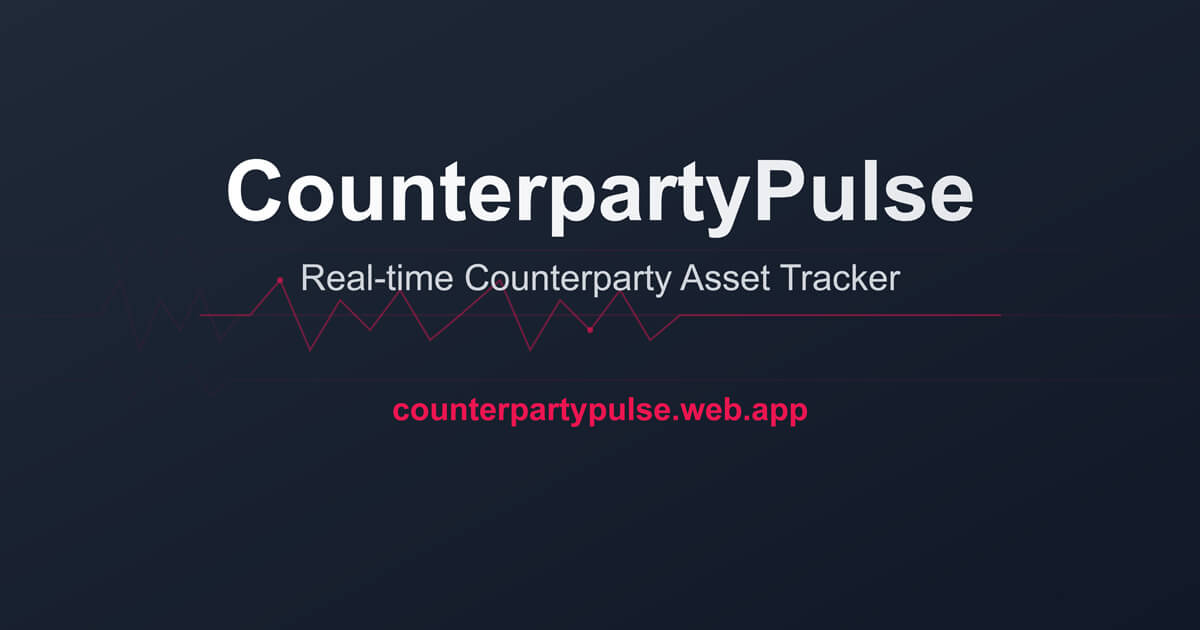
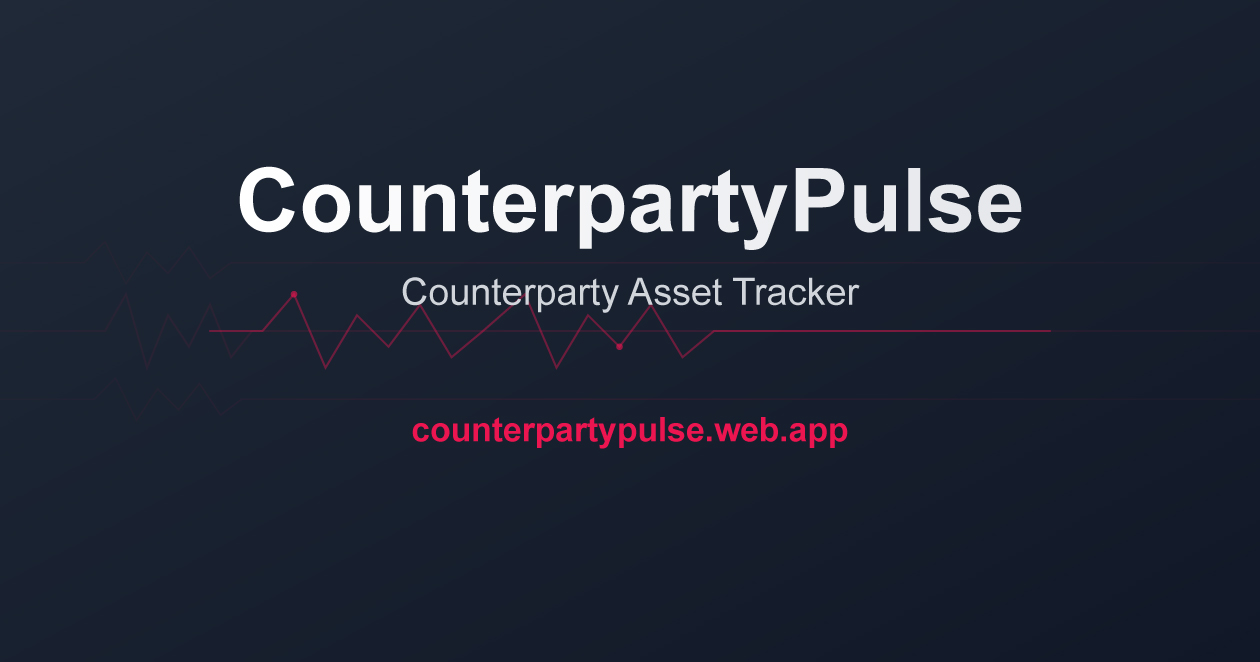
Add FAQ modal with comprehensive asset card explanations
- Created FaqModal component with dark theme styling
- Added explanations for all asset card values: Supply, Issuances, Burns, Address Burns, Available Supply, Holders, Marketplace Offers
- Integrated FAQ button in FiltersSidebar with FAQ icon (FontAwesome)
- Modal can be closed by clicking backdrop (consistent with AssetImageModal)
- Updated sidebar description to mention CP20 and marketplace offers
- All text in English for better accessibility

diff --git a/frontend/src/components/FaqModal.vue b/frontend/src/components/FaqModal.vue
@@ -1,0 +1,114 @@
+<template>
+  <div v-if="show" class="modal modal-open">
+    <div class="modal-box bg-base-100 max-w-4xl">
+      <h3 class="font-bold text-lg mb-4">Understanding Asset Cards</h3>
+      
+      <div class="space-y-6 max-h-96 overflow-y-auto">
+        <!-- Asset Name & Symbol -->
+        <div class="border-l-4 border-blue-500 pl-4">
+          <h4 class="font-semibold text-blue-600 mb-2">Asset Name & Symbol</h4>
+          <p class="text-sm opacity-70">
+            The <strong>Asset Name</strong> is the unique identifier for the digital asset on the Counterparty platform. 
+            The <strong>Symbol</strong> is a short abbreviation that represents the asset.
+          </p>
+        </div>
+        
+        <!-- Supply -->
+        <div class="border-l-4 border-green-500 pl-4">
+          <h4 class="font-semibold text-green-600 mb-2">Supply (Total Amount)</h4>
+          <p class="text-sm opacity-70">
+            The <strong>Supply</strong> shows the total number of available tokens for this asset. 
+            This can be a fixed amount or may change through additional issuances.
+          </p>
+        </div>
+        
+        <!-- Issuances (Total Created) -->
+        <div class="border-l-4 border-cyan-500 pl-4">
+          <h4 class="font-semibold text-cyan-600 mb-2">Issuances (Total Created)</h4>
+          <p class="text-sm opacity-70">
+            The total amount of tokens that have been <strong>created/issued</strong> for this asset.
+            This is the original amount before any burns or destructions.
+          </p>
+        </div>
+        
+        <!-- Burns -->
+        <div class="border-l-4 border-red-500 pl-4">
+          <h4 class="font-semibold text-red-600 mb-2">Burns</h4>
+          <p class="text-sm opacity-70">
+            The total amount of tokens that have been <strong>permanently destroyed</strong> (burned).
+            Burned tokens are removed from circulation forever.
+          </p>
+        </div>
+        
+        <!-- Address Burns -->
+        <div class="border-l-4 border-pink-500 pl-4">
+          <h4 class="font-semibold text-pink-600 mb-2">Address Burns</h4>
+          <p class="text-sm opacity-70">
+            Tokens sent to <strong>burn addresses</strong> (unspendable addresses) that effectively 
+            remove them from circulation without formal burn transactions.
+          </p>
+        </div>
+        
+        <!-- Available Supply -->
+        <div class="border-l-4 border-emerald-500 pl-4">
+          <h4 class="font-semibold text-emerald-600 mb-2">Available Supply</h4>
+          <p class="text-sm opacity-70">
+            The actual <strong>circulating supply</strong> available for trading.
+            Calculated as: Issuances - Burns - Address Burns.
+          </p>
+        </div>
+        
+        <!-- Holders -->
+        <div class="border-l-4 border-purple-500 pl-4">
+          <h4 class="font-semibold text-purple-600 mb-2">Holders (Owners)</h4>
+          <p class="text-sm opacity-70">
+            The number of <strong>Holders</strong> indicates how many different addresses/wallets 
+            currently own this asset. A higher number suggests broader distribution.
+          </p>
+        </div>
+        
+        <!-- Marketplace Offers -->
+        <div class="border-l-4 border-red-500 pl-4">
+          <h4 class="font-semibold text-red-600 mb-2">Marketplace Offers</h4>
+          <p class="text-sm opacity-70">
+            The number of active <strong>trading offers</strong> for this asset on 
+            decentralized exchanges and marketplaces.
+          </p>
+        </div>
+        
+        <!-- Description -->
+        <div class="border-l-4 border-indigo-500 pl-4">
+          <h4 class="font-semibold text-indigo-600 mb-2">Description</h4>
+          <p class="text-sm opacity-70">
+            The <strong>Description</strong> contains additional information about the asset 
+            provided by the creator. This may include links to websites, 
+            project descriptions, or other relevant details.
+          </p>
+        </div>
+        
+        <!-- Additional Info -->
+        <div class="bg-base-200 p-4 rounded-lg">
+          <h4 class="font-semibold mb-2">💡 Additional Information</h4>
+          <ul class="text-sm opacity-70 space-y-1">
+            <li>• <strong>Locked:</strong> Indicates if the asset is locked against further issuances</li>
+            <li>• <strong>Divisible:</strong> Shows if the asset can be divided into fractions</li>
+            <li>• <strong>Creation Date:</strong> The date when the asset was created</li>
+            <li>• <strong>Chain:</strong> Shows which blockchain variant the asset exists on (Classic or Counterparty)</li>
+          </ul>
+        </div>
+      </div>
+    </div>
+    <div class="modal-backdrop" @click="$emit('close')"></div>
+  </div>
+</template>
+
+<script setup>
+defineProps({
+  show: {
+    type: Boolean,
+    required: true
+  }
+});
+
+defineEmits(['close']);
+</script>

diff --git a/frontend/src/components/FiltersSidebar.vue b/frontend/src/components/FiltersSidebar.vue
@@ -1,6 +1,10 @@
 <template>
-  <aside class="w-80 max-w-full bg-base-300 p-4 text-base-content flex-shrink-0 h-full flex flex-col" style="width: 100%;">
-    <!-- Main content area -->
+  <div>
+    <!-- FAQ Modal direkt hier -->
+    <FaqModal :show="showFaqModal" @close="showFaqModal = false" />
+    
+    <aside class="w-80 max-w-full bg-base-300 p-4 text-base-content flex-shrink-0 h-full flex flex-col" style="width: 100%;">
+      <!-- Main content area -->
     <div class="space-y-4 flex-1">
       <!-- Search by asset name -->
       <div class="form-control w-full">
@@ -60,8 +64,30 @@
       </div>
     </div>
     
+    <!-- Description -->
+    <div class="mt-auto pt-2">
+      <p class="text-xs text-base-content/60 text-center leading-relaxed mb-2 max-w-xs mx-auto">
+        Track Counterparty assets on Classic and CP20. Monitor supply, holders, and marketplace offers.
+      </p>
+      
+      <!-- FAQ Icon -->
+      <div class="text-center mb-2">
+        <button 
+          @click="showFaqModal = true"
+          class="btn btn-ghost btn-xs text-base-content/50 hover:text-base-content/80"
+          style="border: none !important; outline: none !important; box-shadow: none !important; background: transparent !important;"
+          title="Learn about card values"
+        >
+          <svg xmlns="http://www.w3.org/2000/svg" viewBox="0 0 640 640" fill="currentColor" class="w-4 h-4">
+            <path d="M320 576C461.4 576 576 461.4 576 320C576 178.6 461.4 64 320 64C178.6 64 64 178.6 64 320C64 461.4 178.6 576 320 576zM320 240C302.3 240 288 254.3 288 272C288 285.3 277.3 296 264 296C250.7 296 240 285.3 240 272C240 227.8 275.8 192 320 192C364.2 192 400 227.8 400 272C400 319.2 364 339.2 344 346.5L344 350.3C344 363.6 333.3 374.3 320 374.3C306.7 374.3 296 363.6 296 350.3L296 342.2C296 321.7 310.8 307 326.1 302C332.5 299.9 339.3 296.5 344.3 291.7C348.6 287.5 352 281.7 352 272.1C352 254.4 337.7 240.1 320 240.1zM288 432C288 414.3 302.3 400 320 400C337.7 400 352 414.3 352 432C352 449.7 337.7 464 320 464C302.3 464 288 449.7 288 432z"/>
+          </svg>
+          FAQ
+        </button>
+      </div>
+    </div>
+    
     <!-- Version and Status in one line -->
-    <div class="mt-auto pt-3">
+    <div class="pt-1">
       <div class="flex items-center justify-between px-1">
         <span class="text-xs text-base-content/50">v1.0.0</span>
         <div class="flex items-center space-x-2">
@@ -81,9 +107,15 @@
       </div>
     </div>
   </aside>
+  </div>
 </template>
 
 <script setup>
+import { ref } from 'vue';
+import FaqModal from './FaqModal.vue';
+
+const showFaqModal = ref(false);
+
 const props = defineProps({
   projects: { type: Array, required: true }, // [{ name, count }]
   selectedProject: { type: String, required: true },

diff --git a/frontend/index.html b/frontend/index.html
@@ -22,13 +22,13 @@
     
     <!-- Basic Meta -->
     <meta name="viewport" content="width=device-width, initial-scale=1.0" />
-    <title>CounterpartyPulse - Real-time Counterparty Asset Tracker</title>
-    <meta name="description" content="Track Counterparty assets in real-time. Monitor issuances, holders, supply, and marketplace offers for Bitcoin-based digital assets and collectibles." />
+    <title>CounterpartyPulse - Counterparty Asset Tracker</title>
+    <meta name="description" content="Track Counterparty assets and monitor issuances, holders, supply, and marketplace offers for Bitcoin-based digital assets and collectibles." />
     
     <!-- Open Graph / Social Media -->
     <meta property="og:type" content="website" />
-    <meta property="og:title" content="CounterpartyPulse - Real-time Counterparty Asset Tracker" />
-    <meta property="og:description" content="Track Counterparty assets in real-time. Monitor issuances, holders, supply, and marketplace offers for Bitcoin-based digital assets and collectibles." />
+    <meta property="og:title" content="CounterpartyPulse - Counterparty Asset Tracker" />
+    <meta property="og:description" content="Track Counterparty assets and monitor issuances, holders, supply, and marketplace offers for Bitcoin-based digital assets and collectibles." />
     <meta property="og:image" content="https://counterpartypulse.web.app/og-image.jpg" />
     <meta property="og:image:width" content="1200" />
     <meta property="og:image:height" content="630" />
@@ -39,12 +39,12 @@
     
     <!-- Twitter Card -->
     <meta name="twitter:card" content="summary_large_image" />
-    <meta name="twitter:title" content="CounterpartyPulse - Real-time Asset Tracker" />
-    <meta name="twitter:description" content="Track Counterparty assets in real-time. Monitor issuances, holders, supply, and marketplace offers." />
+    <meta name="twitter:title" content="CounterpartyPulse - Asset Tracker" />
+    <meta name="twitter:description" content="Track Counterparty assets and monitor issuances, holders, supply, and marketplace offers." />
     <meta name="twitter:image" content="https://counterpartypulse.web.app/og-image.jpg" />
     
     <!-- SEO & Keywords -->
-    <meta name="keywords" content="counterparty, bitcoin, assets, blockchain, tracking, real-time, collectibles, nft, cryptocurrency, marketplace, offers" />
+    <meta name="keywords" content="counterparty, bitcoin, assets, blockchain, tracking, collectibles, nft, cryptocurrency, marketplace, offers" />
     <meta name="author" content="CounterpartyPulse" />
     <meta name="robots" content="index, follow" />
     <meta name="googlebot" content="index, follow" />

diff --git a/frontend/src/App.vue b/frontend/src/App.vue
@@ -593,7 +593,7 @@ function setupRealtimeListeners() {
           
           console.log(`🔄 Real-time change: ${change.type} for asset ${assetId}${changedFields.length ? ' | Updated: ' + changedFields.join(', ') : ''}`);
           
-          if (change.type === 'added' && !isInitialLoad) {
+          if (change.type === 'added' && initialLoaded.value) {
             // New asset added (only if not during initial load)
             const existingIndex = assets.value.findIndex(a => a.name === assetId);
             if (existingIndex === -1) {
